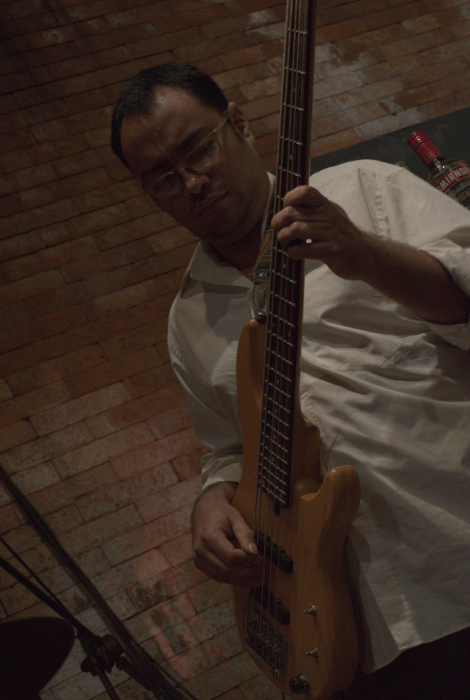
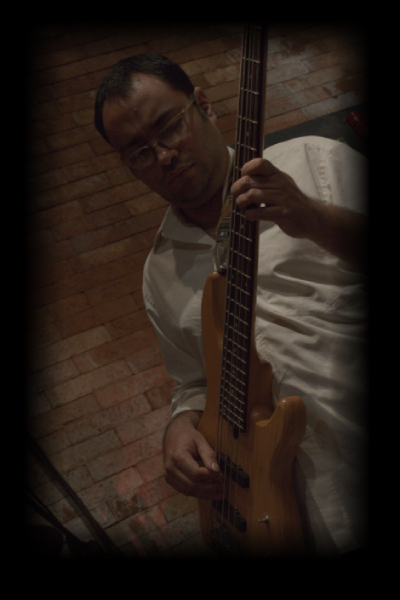
se corrigio las imagenes del index

diff --git a/css/estilo.css b/css/estilo.css
@@ -188,25 +188,6 @@ body.index--background {
     body.index--background main div.index--center .index__imagenes .index__imagenes__item {
       width: 300px;
       height: 450px; } }
-  body.index--background main div.index--center .index__imagenes .index__imagenes__item::before {
-    position: absolute;
-    object-position: 0%;
-    object-fit: cover;
-    content: ' ';
-    background: transparent;
-    border: #000 solid 20px;
-    filter: blur(10px);
-    z-index: 2;
-    outline: #000 20px solid; }
-    @media only screen and (min-width: 768px) {
-      body.index--background main div.index--center .index__imagenes .index__imagenes__item::before {
-        height: 450px;
-        width: 300px; } }
-    @media only screen and (max-width: 768px) {
-      body.index--background main div.index--center .index__imagenes .index__imagenes__item::before {
-        height: 40%;
-        width: 49%;
-        margin-left: 3px; } }
   body.index--background main div.index--center .index__imagenes .index__imagenes__item img {
     object-fit: cover; }
     @media only screen and (max-width: 768px) {
@@ -214,8 +195,7 @@ body.index--background {
         height: 100%;
         width: 100%;
         max-width: 50vw;
-        max-height: 50vh;
-        object-fit: cover; } }
+        max-height: 50vh; } }
     @media only screen and (min-width: 768px) {
       body.index--background main div.index--center .index__imagenes .index__imagenes__item img {
         width: 300px;

diff --git a/scss/page/_index.scss b/scss/page/_index.scss
@@ -22,31 +22,6 @@ body.index--background {
                         height: 450px;
                     }
 
-                    &::before {
-                        position: absolute;
-                        object-position: 0%;
-                        object-fit: cover;
-                        content: ' ';
-                        background: transparent;
-                        border: #000 solid 20px;
-                        filter: blur(10px);
-                        z-index: 2;
-                        outline: #000 20px solid;
-
-                        @media only screen and (min-width:768px) {
-                            height: 450px;
-                            width: 300px;
-                        }
-
-                        @media only screen and (max-width:768px) {
-
-                            height: 40%;
-                            width: 49%;
-                            margin-left: 3px;
-                        }
-
-                    }
-
                     & img {
                         @media only screen and (max-width:768px) {
 
@@ -54,7 +29,6 @@ body.index--background {
                             width: 100%;
                             max-width: 50vw;
                             max-height: 50vh;
-                            object-fit: cover;
                         }
 
                         @media only screen and (min-width:768px) {

diff --git a/index.html b/index.html
@@ -23,10 +23,10 @@
     </header>
     <main class="container mb-5">
         <div class="index--center">
-            <div class="index__imagenes d-flex justify-content-center">
-                <div class="index__imagenes__item"><img class="charly" src="galeria/img/DSC_0121.png"></div>
-                <div class="index__imagenes__item"><img class="beto" src="galeria/img/DSC_0030.png"></div>
-                <div class="index__imagenes__item"><img class="dario" src="galeria/img/DSC_0071.png"></div>
+            <div class="index__imagenes d-flex justify-content-evenly">
+                <div class="index__imagenes__item"><img class="charly" src="galeria/img/charly.png"></div>
+                <div class="index__imagenes__item"><img class="beto" src="galeria/img/beto.png"></div>
+                <div class="index__imagenes__item"><img class="dario" src="galeria/img/dario.png"></div>
                 <div class="index__imagenes__item"><img class="vene" src="galeria/img/vene.png"></div>
             </div>
             <div class="jamglass--button d-flex justify-content-center align-items-center">

diff --git a/inicio/inicio.html b/inicio/inicio.html
@@ -114,7 +114,7 @@
         </section>
         <section class="inicio__galeria container-fluid animation" data-aos="fade-up" data-aos-duration="1000">
             <h1 class="text-light m-4">Galería</h1>
-            <div class="inicio__galeria__container d-flex justify-content-around flex-wrap">
+            <div class="inicio__galeria__container d-flex justify-content-around flex-nowrap">
                 <img class="inicio__galeria__item1" data-aos="flip-left" data-aos-easing="ease-out-cubic"
                     data-aos-duration="2000" src="../galeria/img/DSC_0030.png" alt="piano">
                 <img class="inicio__galeria__item2 onlyDesktop" data-aos="flip-left" data-aos-easing="ease-out-cubic"
